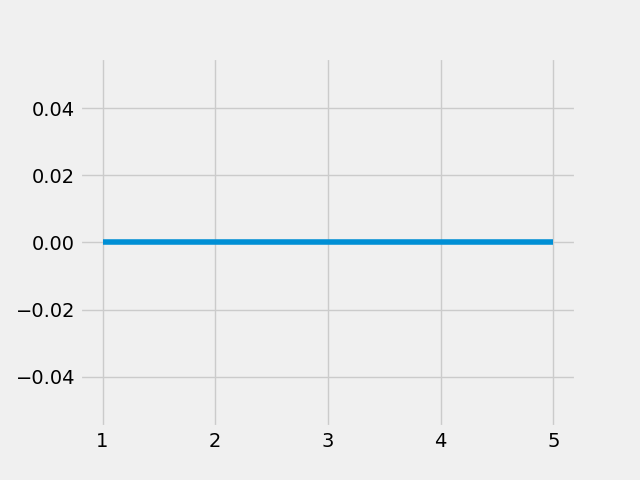
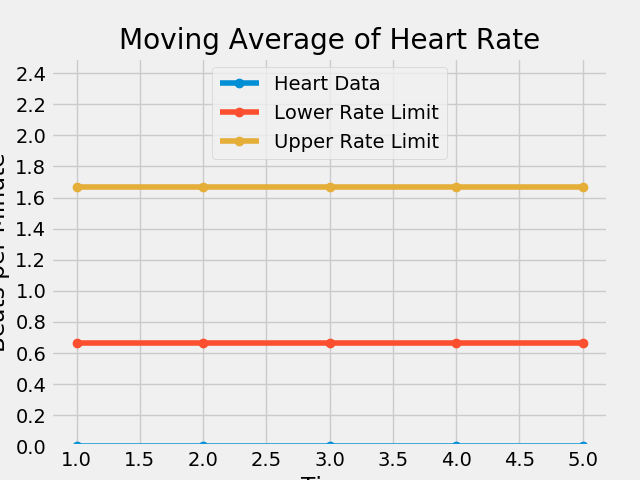
trying Google Cloud

diff --git a/static/graph_and_table.js b/static/graph_and_table.js
@@ -18,10 +18,11 @@ function requestAlerts() {
         success: function(response) {
             var html = "<tr>"
             //debugger
+            console.log(response)
             for(var i in response) {
                 alert = response[i]
                 // Fix how the html gets generated once you know the format of the alerts
-                html = "<tr><td>" + alert["id"] + "</td><td>" + alert["one"] + "</td><td>" + alert["two"] + "</td><td>" + alert["three"] + "</td><td>" + alert["four"] + "</td></tr>";
+                html = "<tr><td>" + alert["id"] + "</td><td>" + alert["type"] + "</td></tr>";
                 $("#alert_body").append(html)
             }
 

diff --git a/templates/index.html b/templates/index.html
@@ -39,10 +39,7 @@
         <thead>
         <tr>
             <th>#</th>
-            <th>Header</th>
-            <th>Header</th>
-            <th>Header</th>
-            <th>Header</th>
+            <th>Type</th>
         </tr>
         </thead>
         <tbody id="alert_body"></tbody>

diff --git a/main.py b/main.py
@@ -57,18 +57,19 @@ patient_data = {
 LRL = 1500.0 # milliseconds
 URL = 600.0 # milliseconds
 
-x = [1, 2, 3, 4, 5]
+x = [float(i+1) for i in range(5)]
 
 # Conversion to beats per minute
 LRL_data = [1000.0/LRL for i in range(5)]
 URL_data = [1000.0/URL for i in range(5)]
+fig = plt.figure()
 
-y = [0, 0, 0, 0, 0]
+heart_data = [0.0 for i in range(5)]
 
 
 # Global variable for alerts
-notifications = []
-
+slow_alarms = ["" for i in range(5)]
+fast_alarms = ["" for i in range(5)]
 
 broker_address = "35.188.242.1"
 port = 1883
@@ -77,10 +78,14 @@ username = "mbed"
 password = "homework"
 uuid = "1234"
 # topic = "cis541/hw-mqt/26013f37-08009003ae2a90e552b1fc8ef5001e87/echo"
-topic = "group8/data"
+data_topic = "group8/data"
+fast_alert_topic = "group8/slowHeartBeatAlarm"
+slow_alert_topic = "group8/fastHeartBeatAlarm"
 qos = 0
 
-
+def add_data(data, payload):
+    data.pop(0)
+    data.append(payload)
 
 # The callback for when the client receives a CONNACK response from the server.
 def on_connect(client, userdata, flags, rc):
@@ -89,12 +94,19 @@ def on_connect(client, userdata, flags, rc):
 
     # Subscribing in on_connect() means that if we lose the connection and
     # reconnect then subscriptions will be renewed.
-    client.subscribe(topic)
+    client.subscribe(data_topic)
+    client.subscribe(fast_alert_topic)
+    client.subscribe(slow_alert_topic)
 
 # The callback for when a PUBLISH message is received from the server.
 def on_message(client, userdata, msg):
-    y.pop(0)
-    y.append(msg.payload)
+    if "slow" in msg.payload:
+        add_data(slow_alarms, msg.payload)
+    elif "fast" in msg.payload:
+        add_data(fast_alarms, msg.payload)
+    else:
+        add_data(heart_data, float(msg.payload))
+
     print(msg.topic+" "+str(msg.payload) + '\n')
 
 def on_disconnect(client, userdata, rc):
@@ -164,20 +176,30 @@ def about():
     return render_template('about.html', message='About page under construction')
 
 @app.route('/alerts')
-def alerts_ep():
-    for i in range(10):
+def alarms_ep():
+    # Combine alarms and take out empty strings
+    all_alarms = filter(lambda x: x != "", slow_alarms + fast_alarms)
+
+    notifications = []
+
+    alarm_type = ""
+    for i in range(len(all_alarms)):
+        if "slow" in all_alarms[i]:
+            alarm_type = "slow"
+        else:
+            alarm_type = "fast"
+
+
         notifications.append({
             'id': i,
-            'one': 'one',
-            'two': 'two',
-            'three': 'three',
-            'four': 'four'
+            'type': alarm_type
         })
 
     return jsonify(notifications)
 
 @app.route('/graph')
 def graph_ep():
+
     fig = plt.figure()
 
     # Matplotlib setup
@@ -190,7 +212,7 @@ def graph_ep():
     # y_axis = [float(i)/10.0 for i in range(0,16,1)]
 
 
-    ax1.plot(x, y, marker='o', label="Heart Data")
+    ax1.plot(x, heart_data, marker='o', label="Heart Data")
     ax1.plot(x, LRL_data, marker='o', label="Lower Rate Limit")
     ax1.plot(x, URL_data, marker='o', label="Upper Rate Limit")
     ax1.set(xlabel="Time",
@@ -208,7 +230,6 @@ def graph_ep():
     y_axis = [float(i)/10.0 for i in range(0,25,2)]
     plt.yticks(y_axis)
 
-    # ani = animation.FuncAnimation(fig, animate, interval=1000)
 
     time_string = str(int(time.time()))
     file_name = 'static/graphs/real/graph' + time_string + '.png'
